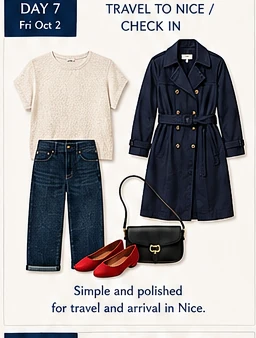
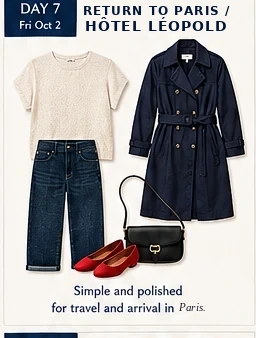
Fix Day 7/8 outfit board labels to match final itinerary
Day 7 (Fri Oct 2) was mislabeled "Travel to Nice / Check In" — it's
actually the return from Mont-Saint-Michel to Paris and check-in at
Hôtel Léopold. Day 8 (Sat Oct 3) just read "Nice" with no indication
it's the travel day to Nice.

- day-07.webp / master board: header now reads "Return to Paris /
  Hôtel Léopold"; caption corrected from "arrival in Nice" to
  "arrival in Paris"
- day-08.webp / master board: header now reads "Travel to Nice"
- france-2026.ts: ob7's outfit board note corrected to match
  ("...arrival in Paris")

Outfits themselves are unchanged — only the embedded day/activity
text was edited to match the days array in france-2026.ts. No
booking, transport, restaurant, cost, or schedule data touched.

Claude-Session: https://claude.ai/code/session_01SDDjSQsBPK5FrMubUxkiHM

Changed region(s): [[0.3125, 0.0, 0.9062, 0.0888], [0.6875, 0.8876, 0.8125, 0.9467]]

diff --git a/src/data/trips/france-2026.ts b/src/data/trips/france-2026.ts
@@ -655,7 +655,7 @@ export const franceTrip: Trip = {
     { id: 'ob4', dayId: 'd4', imageUrl: '/images/outfits/day-04.webp', itemNames: ['Cream/Navy Striped Turtleneck', 'Black Pants', 'Navy Tommy Hilfiger Trench Coat', 'White Sneakers', 'Black Crossbody Bag'], note: 'Comfortable, classic and refined for a full day outdoors.' },
     { id: 'ob5', dayId: 'd5', imageUrl: '/images/outfits/day-05.webp', itemNames: ['Black Sleeveless Maxi', 'Light Cream 3/4-Sleeve Cardigan', 'Silk Scarf', 'Gold Cole Haan Mary Janes', 'Black Crossbody Bag'], note: 'Elegant and effortless for a day of art and city strolls.' },
     { id: 'ob6', dayId: 'd6', imageUrl: '/images/outfits/day-06.webp', itemNames: ['White Button-Down', 'Black Pants', 'Uniqlo Packable Rain Shell', 'White Sneakers', 'Black Crossbody Bag'], note: 'Practical, comfortable and weather-ready for a beautiful day trip.' },
-    { id: 'ob7', dayId: 'd7', imageUrl: '/images/outfits/day-07.webp', itemNames: ['Cream Textured Top', 'Dark Jeans', 'Navy Tommy Hilfiger Trench Coat', "Red Rothy's Flats", 'Black Crossbody Bag'], note: 'Simple and polished for travel and arrival in Nice.' },
+    { id: 'ob7', dayId: 'd7', imageUrl: '/images/outfits/day-07.webp', itemNames: ['Cream Textured Top', 'Dark Jeans', 'Navy Tommy Hilfiger Trench Coat', "Red Rothy's Flats", 'Black Crossbody Bag'], note: 'Simple and polished for travel and arrival in Paris.' },
     { id: 'ob8', dayId: 'd8', imageUrl: '/images/outfits/day-08.webp', itemNames: ['White T-Shirt', 'Black Pants', 'Black Blazer', 'White Sneakers', 'Black Crossbody Bag'], note: 'Relaxed and chic for exploring Nice and the Promenade.' },
     { id: 'ob9', dayId: 'd9', imageUrl: '/images/outfits/day-09.webp', itemNames: ['Floral Maxi', 'Light Cream 3/4-Sleeve Cardigan', 'Gold Cole Haan Mary Janes', 'Black Crossbody Bag'], note: 'Feminine and effortless for charming villages and sea views.' },
     { id: 'ob10', dayId: 'd10', imageUrl: '/images/outfits/day-10.webp', itemNames: ['White Button-Down', 'Dark Jeans', 'Cream Textured Top', "Red Rothy's Flats", 'Black Crossbody Bag'], note: 'Easy Riviera polish for a relaxed day by the sea.' },
